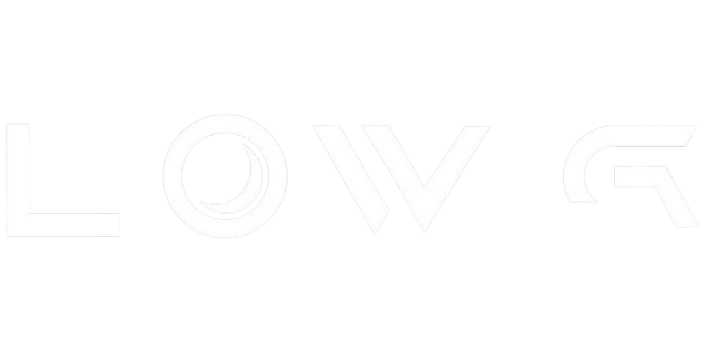
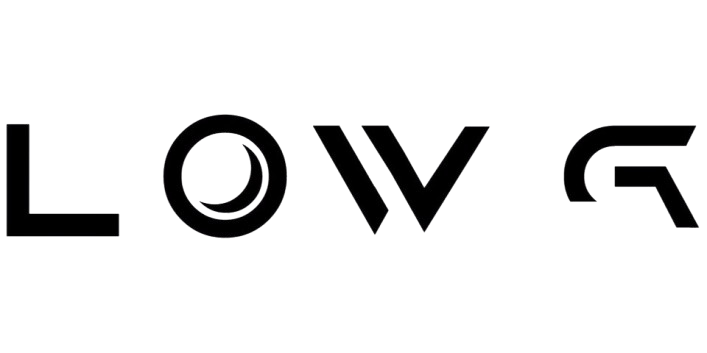
Reverse color of low g and fixed

diff --git a/index.html b/index.html
@@ -28,7 +28,11 @@
                 With a focus on real-world applications, BEST Robotics equips students with valuable skills and ignites a passion for STEM fields, preparing them for future educational and career opportunities.
             </div>
             <div class="sidebyside">
-            <img src="media/LOW G.png" height="200">
+            <img src="media/LOW G.png" style=" display: block;
+            font-size: 17pt;
+            color: black;
+            margin-left: 30px;
+            margin-right: 30px;" height="200">
             <a href="https://bestrobotics.org">The BEST Robotics website can be found here.</a>
             </div>
             <p>The 2024 BEST Robotics competition, themed "LOW G," marks the 32nd year of this exciting challenge. This year's competition takes us to the moon, where teams are tasked with building a rover capable of mining and collecting moon core samples, collecting moon rocks, repairing lunar landing site equipment,
